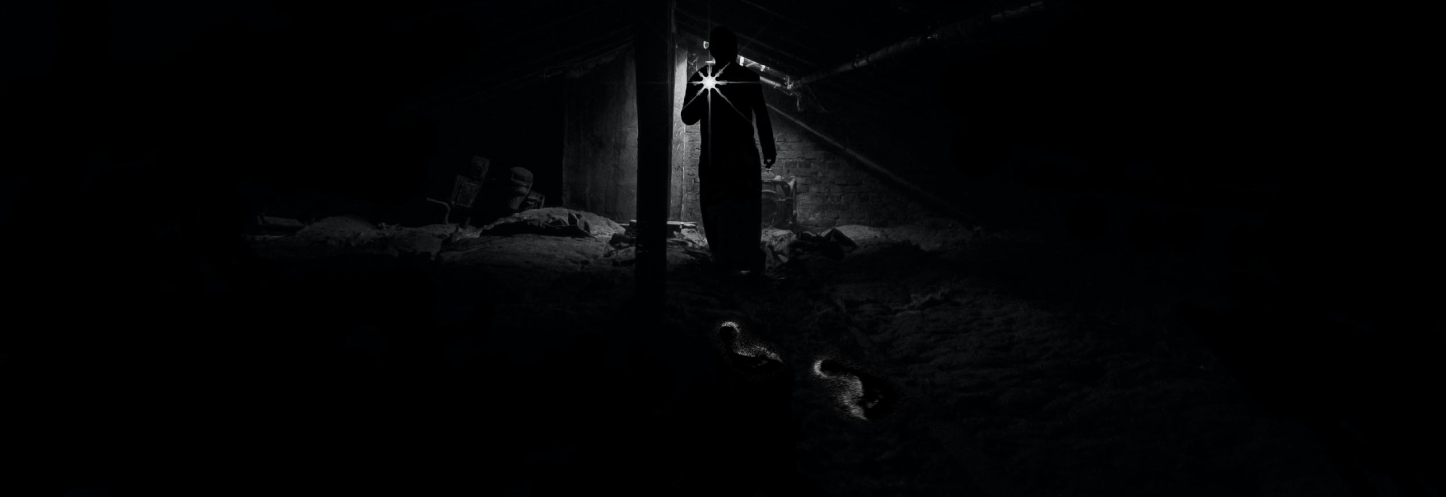
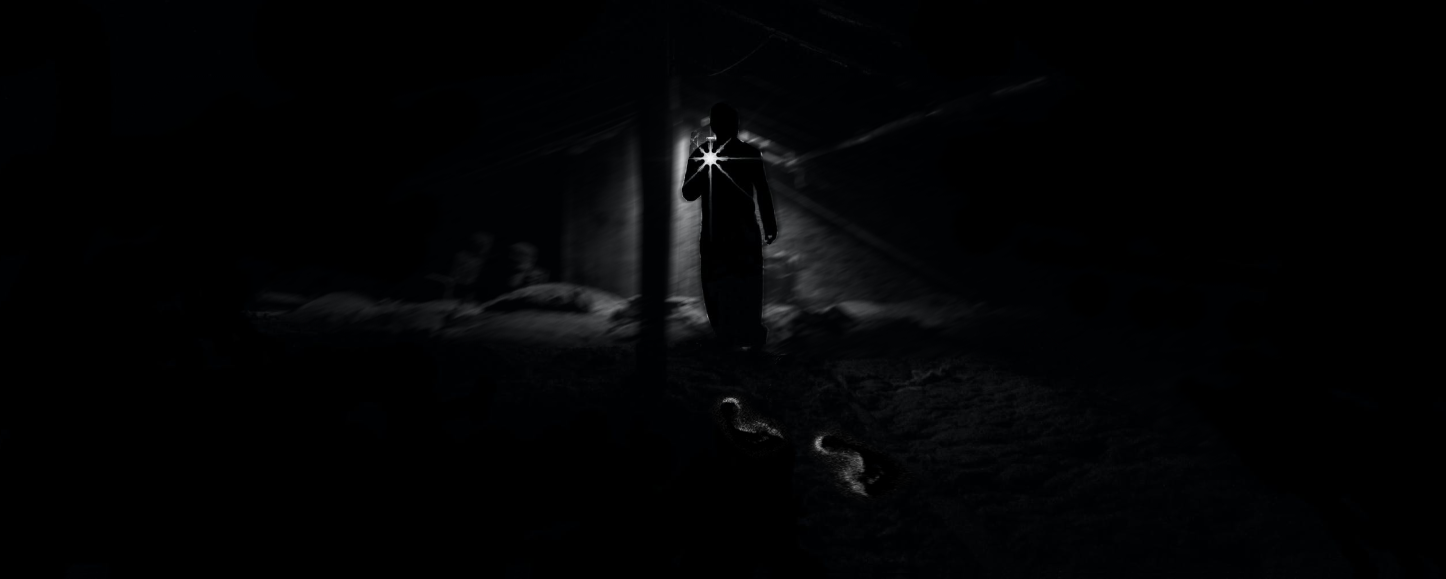
BlurredBackground

diff --git a/src/assets/scss/pages.scss b/src/assets/scss/pages.scss
@@ -6,7 +6,7 @@ $prm-font-size: 12px;
 @import "~bulma/bulma.sass";
 
 .web-banner {
-	background: url("../../../static/banner/b10.png");
+	background: url("../../../static/banner/b1.png");
 	height: 800px;
 	// background-attachment: fixed;
 	background-position: center;
